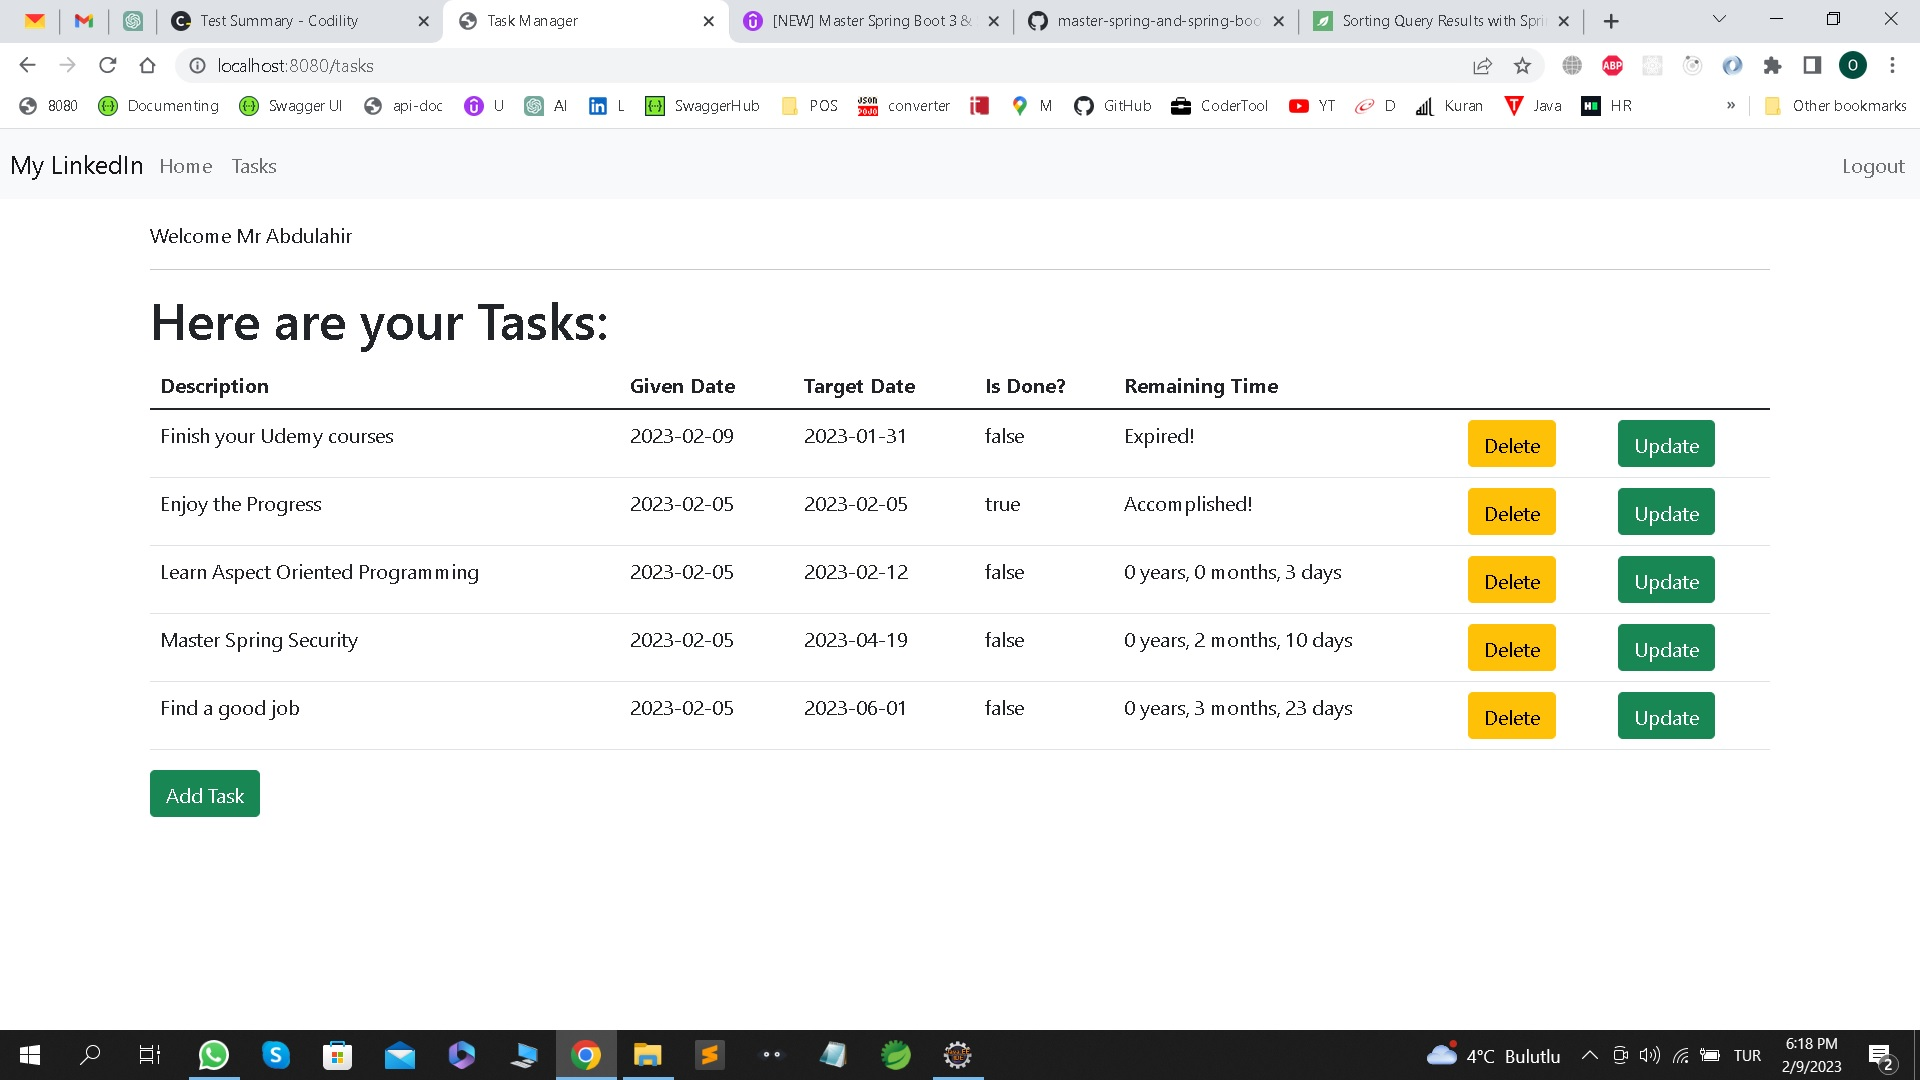
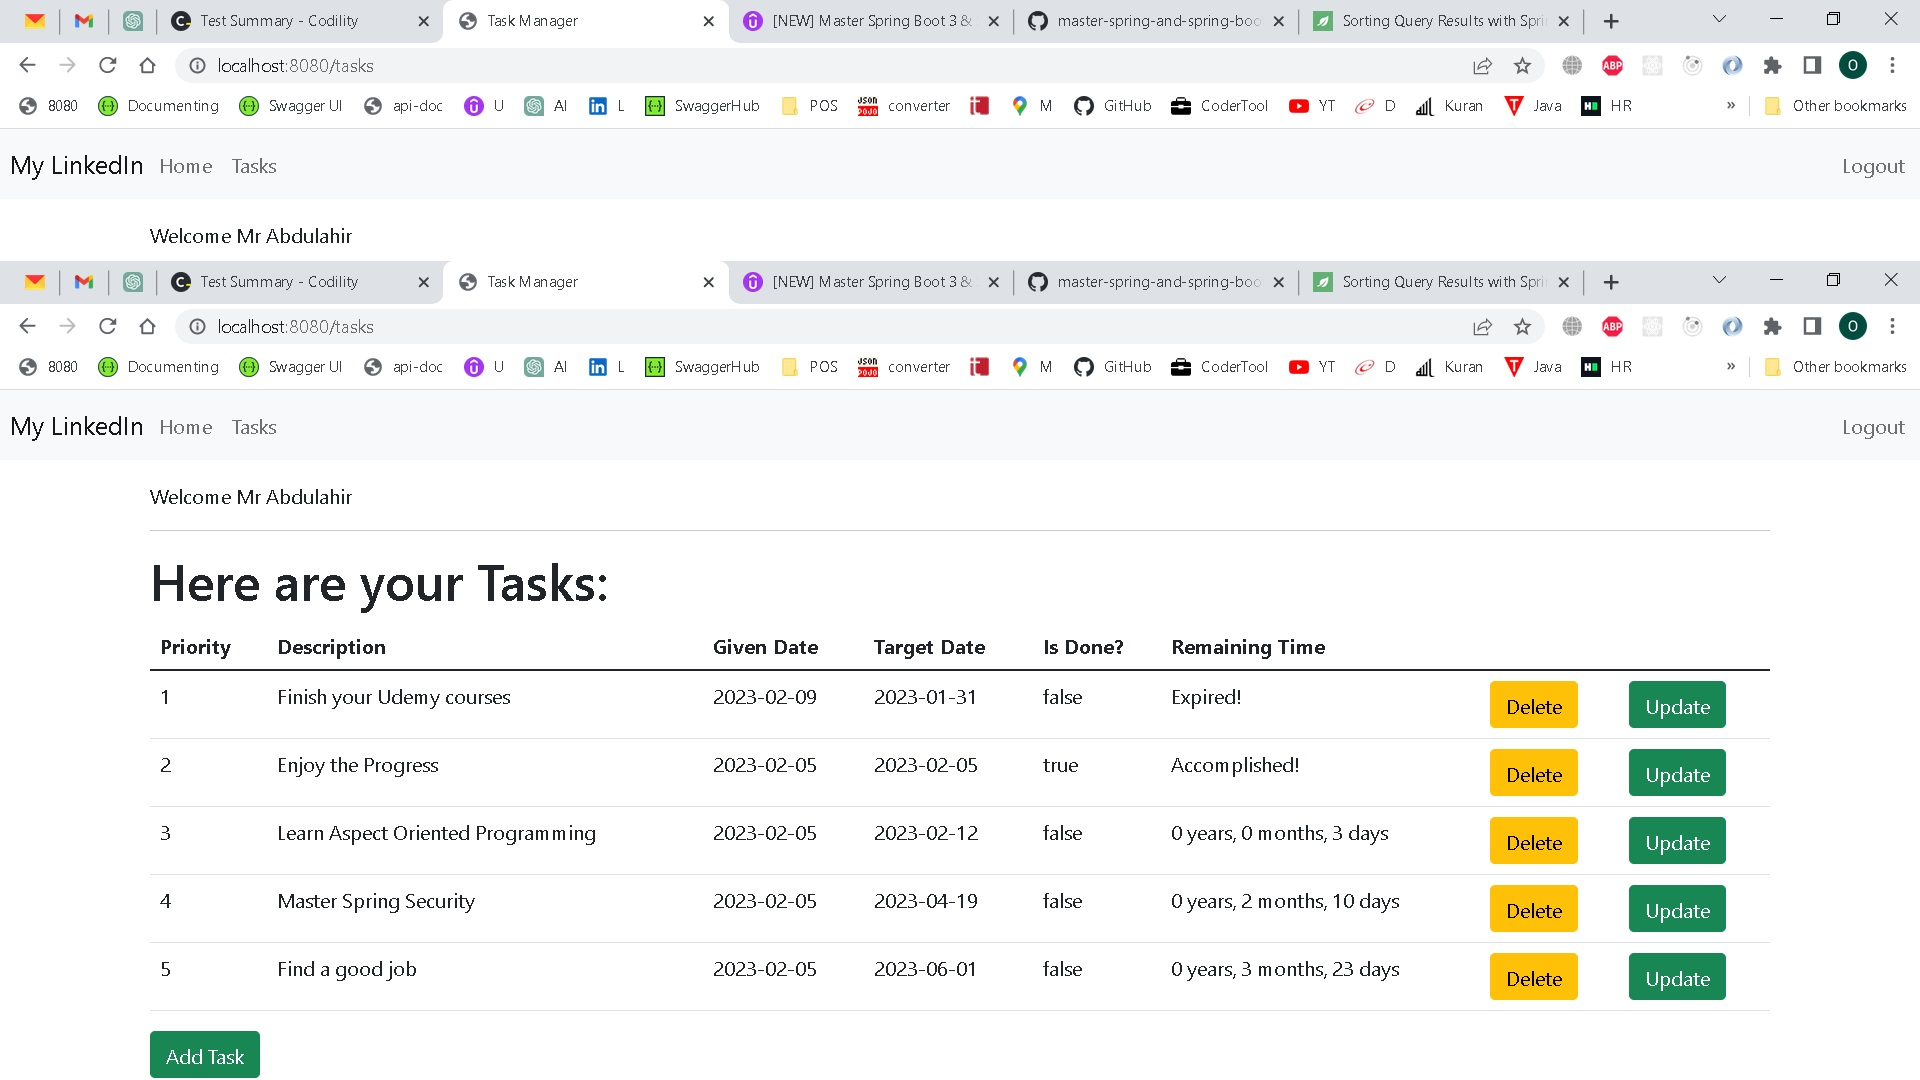
Tasks priority count is added

diff --git a/task-manager-app/src/main/java/com/tasks/model/Task.java b/task-manager-app/src/main/java/com/tasks/model/Task.java
@@ -30,6 +30,8 @@ public class Task {
 	private LocalDate targetDate;
 	@Transient//to disable jpa to create a column in DB
 	private String remainingTime;
+	@Transient
+	private int priority;
 	private boolean done;
 
 	@ManyToOne//(fetch = FetchType.LAZY)
@@ -112,6 +114,14 @@ public class Task {
 
 	public void setRemainingTime(String remainingTime) {
 		this.remainingTime = remainingTime;
+	}
+
+	public int getPriority() {
+		return priority;
+	}
+
+	public void setPriority(int priority) {
+		this.priority = priority;
 	}
 
 	@Override

diff --git a/task-manager-app/src/main/java/com/tasks/controller/TaskController.java b/task-manager-app/src/main/java/com/tasks/controller/TaskController.java
@@ -43,7 +43,9 @@ public class TaskController {
 	}
 	
 	private void getRemainingTimes(List<Task> tasks) {
+		int priority=1;
 		for(Task t:tasks) {
+			t.setPriority(priority);
 			Period period = Period.between(LocalDate.now(),t.getTargetDate());
 			String diff=null;
 			if(t.isDone()) {
@@ -56,6 +58,7 @@ public class TaskController {
 				}
 		    }
 			t.setRemainingTime(diff);
+			priority++;
 		}
 	}
 
